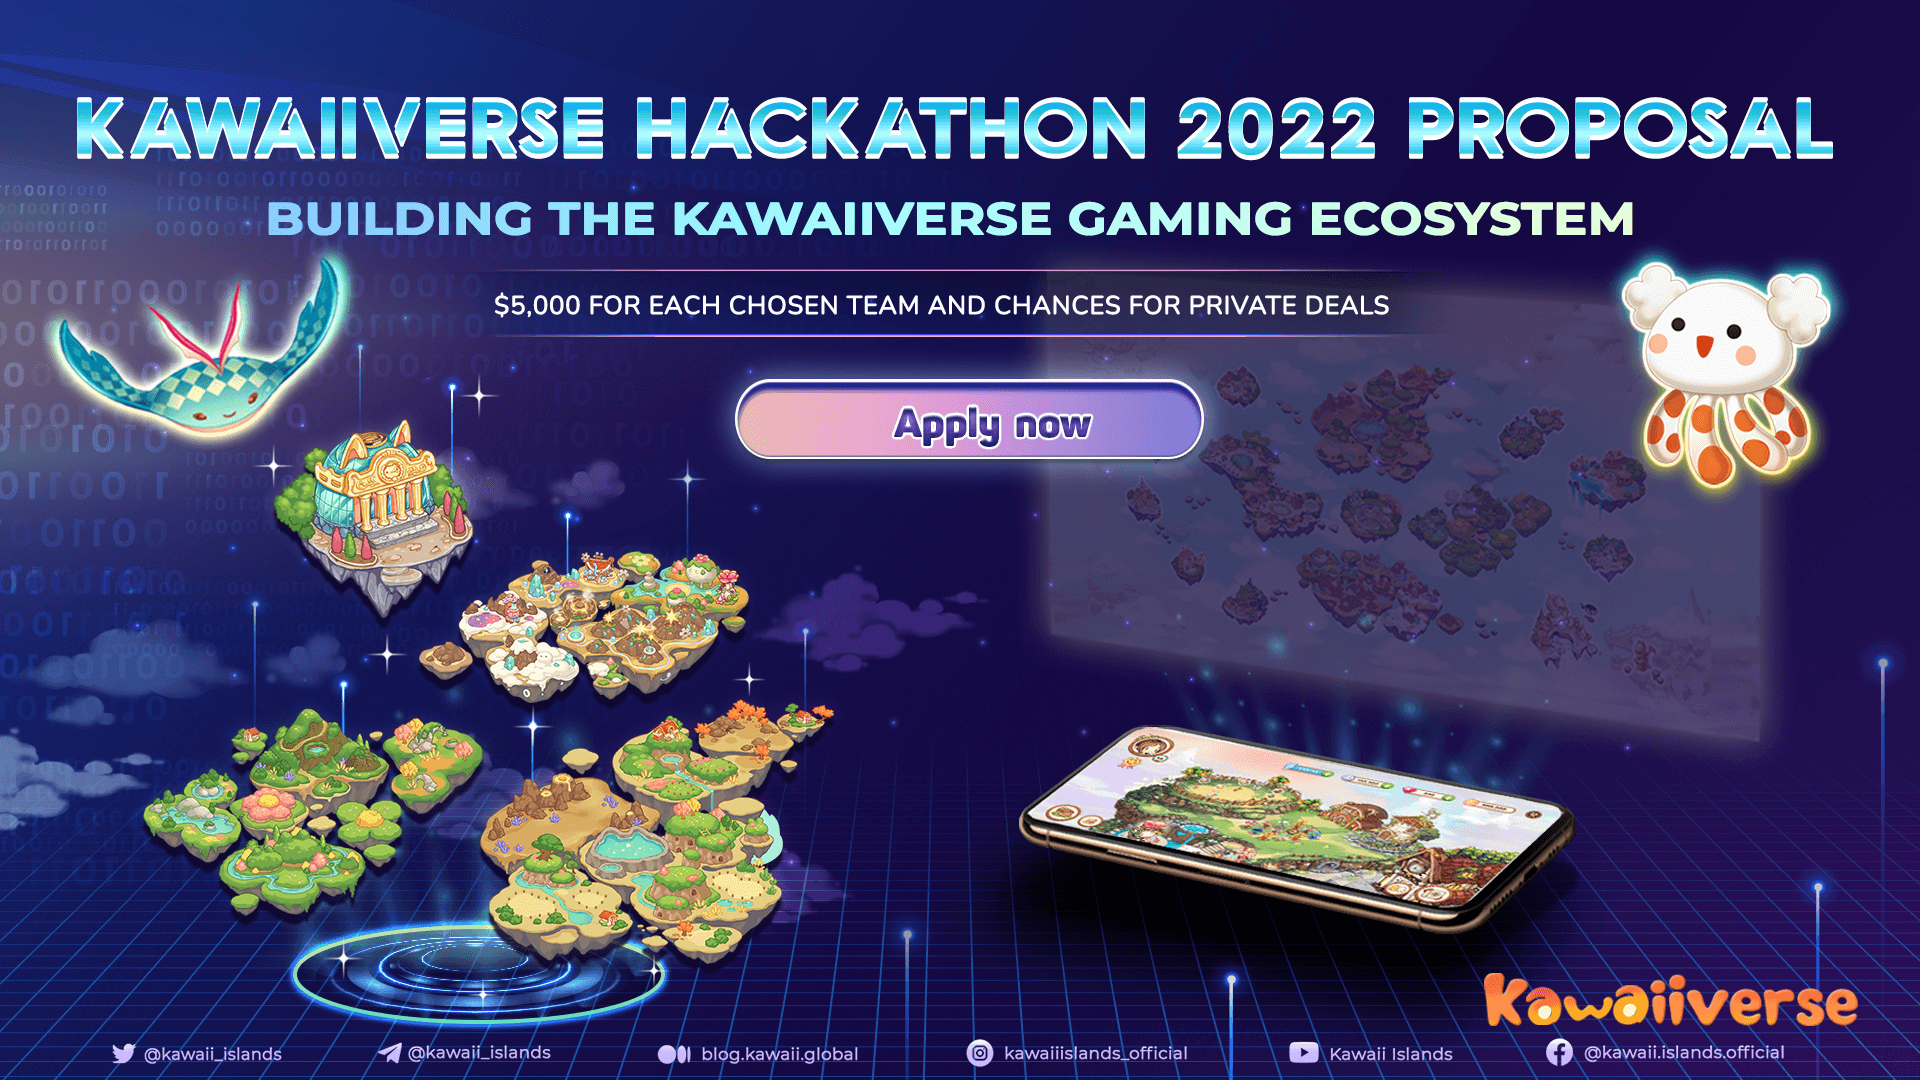
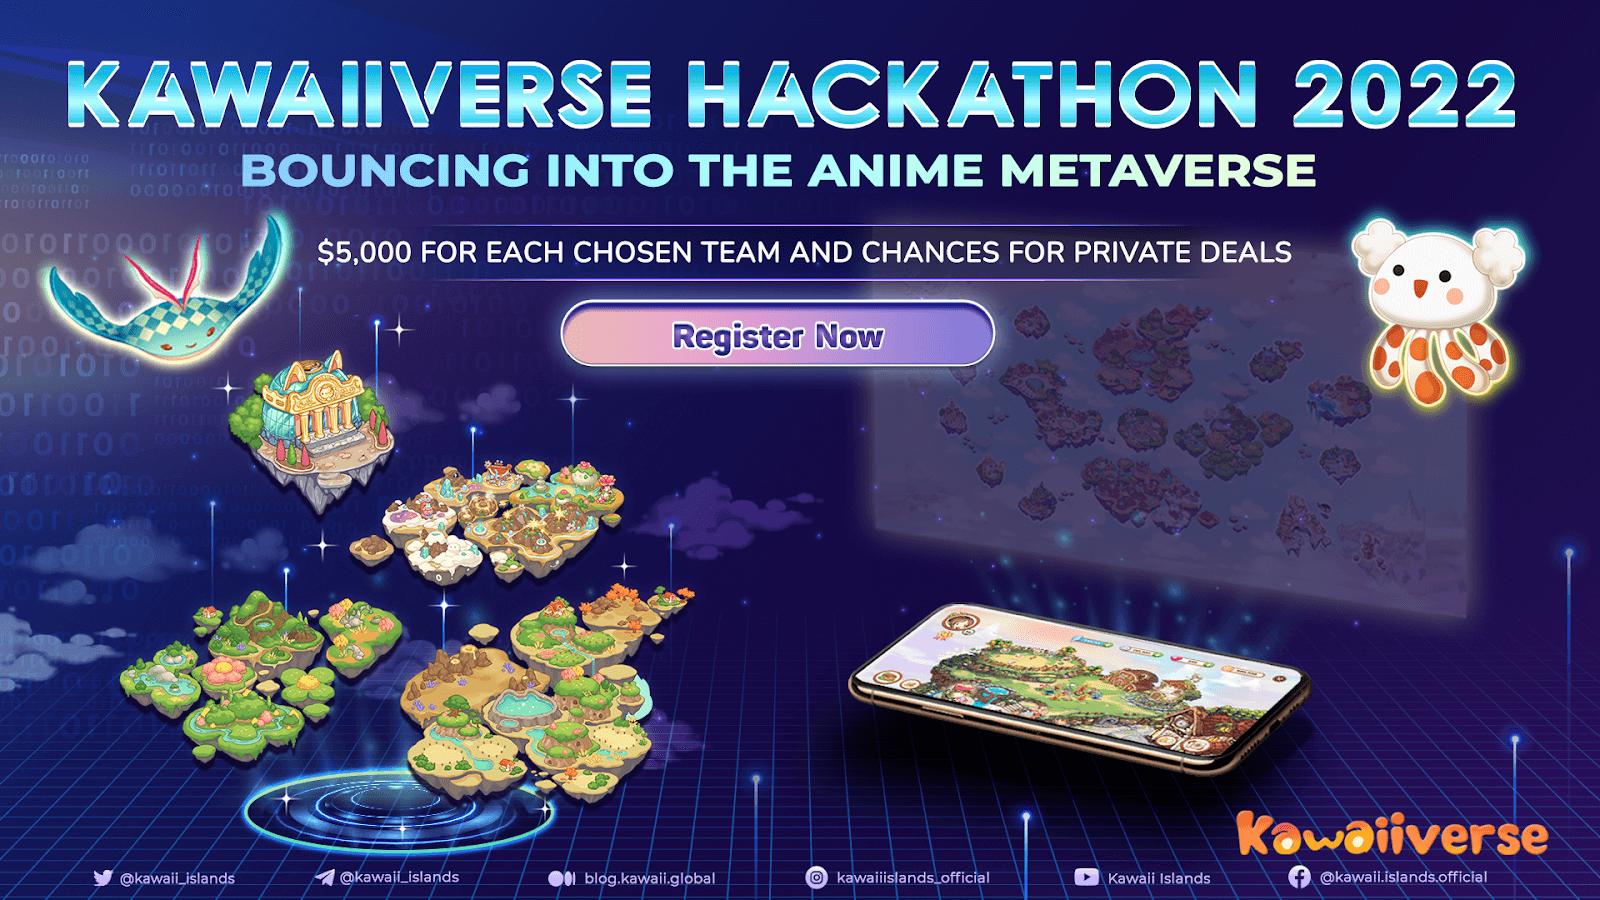
fix: hackathon call

diff --git a/news/news-1.js b/news/news-1.js
@@ -1,25 +1,24 @@
 import Link from "next/link";
 
 export default {
-  url: "kawaiiverse-hackathon-2022-proposal-building-the-kawaiiverse-gaming-ecosystem",
-  title: `Kawaiiverse Hackathon 2022 Proposal: Building the Kawaiiverse gaming ecosystem`,
+  url: "kawaiiverse-hackathon-2022-building-the-kawaiiverse-gaming-ecosystem",
+  title: `Kawaiiverse Hackathon 2022: Building the Kawaiiverse gaming ecosystem`,
   date: "07/10/2022",
   image: "/images/home/kawaii-hackathon-banner.png",
   description:
-    "Aiming to incubate our community-owned Anime Metaverse, Kawaii team is thrilled to launch the first ever Kawaiiverse Hackathon, a game hackathon with the mission to find and incubate promising talents from all over the world while growing our metaverse. Development teams from all over the world will have a chance to win an initial prize of $5,000 for each chosen team and chances to develop their game idea of choice with our support to join Kawaiiverse.",
+    "Aiming to incubate the community-owned Anime Metaverse, Kawaiiverse recently launched their first ever Hackathon with the mission to find promising talents from all over the world, starting with gaming projects. Development teams joining will have a chance to win an initial prize of $5,000 for each chosen team and chances to develop their game idea of choice with our support to join Kawaiiverse.",
   content: (
     <>
       <p>
         Kawaiiverse is an Anime Metaverse co-founded in 2021 by <b>Imba</b>, a
         leading game company with years of game developing experience and
         multiple successful games including Kawaii Mansion, Kawaii Home
-        Design,... and{" "}
-        <b>Oraichain</b>, the world's first intelligent and secure solution for
-        emerging Web3, scalable Dapps, and decentralized AI. With the target to
-        keep building, maintaining and expanding the Anime Metaverse,
-        Kawaiiverse will continuously roll out new events and programs to
-        incubate the ecosystem development, especially the co-development from
-        our talented and creative community members.
+        Design,... and <b>Oraichain</b>, the world's first intelligent and
+        secure solution for emerging Web3, scalable Dapps, and decentralized AI.
+        With the target to keep building, maintaining and expanding the Anime
+        Metaverse, Kawaiiverse will continuously roll out new events and
+        programs to incubate the ecosystem development, especially the
+        co-development from our talented and creative community members.
       </p>
       <p>
         In anticipation of the recently launched Kawaiiverse subnet on
